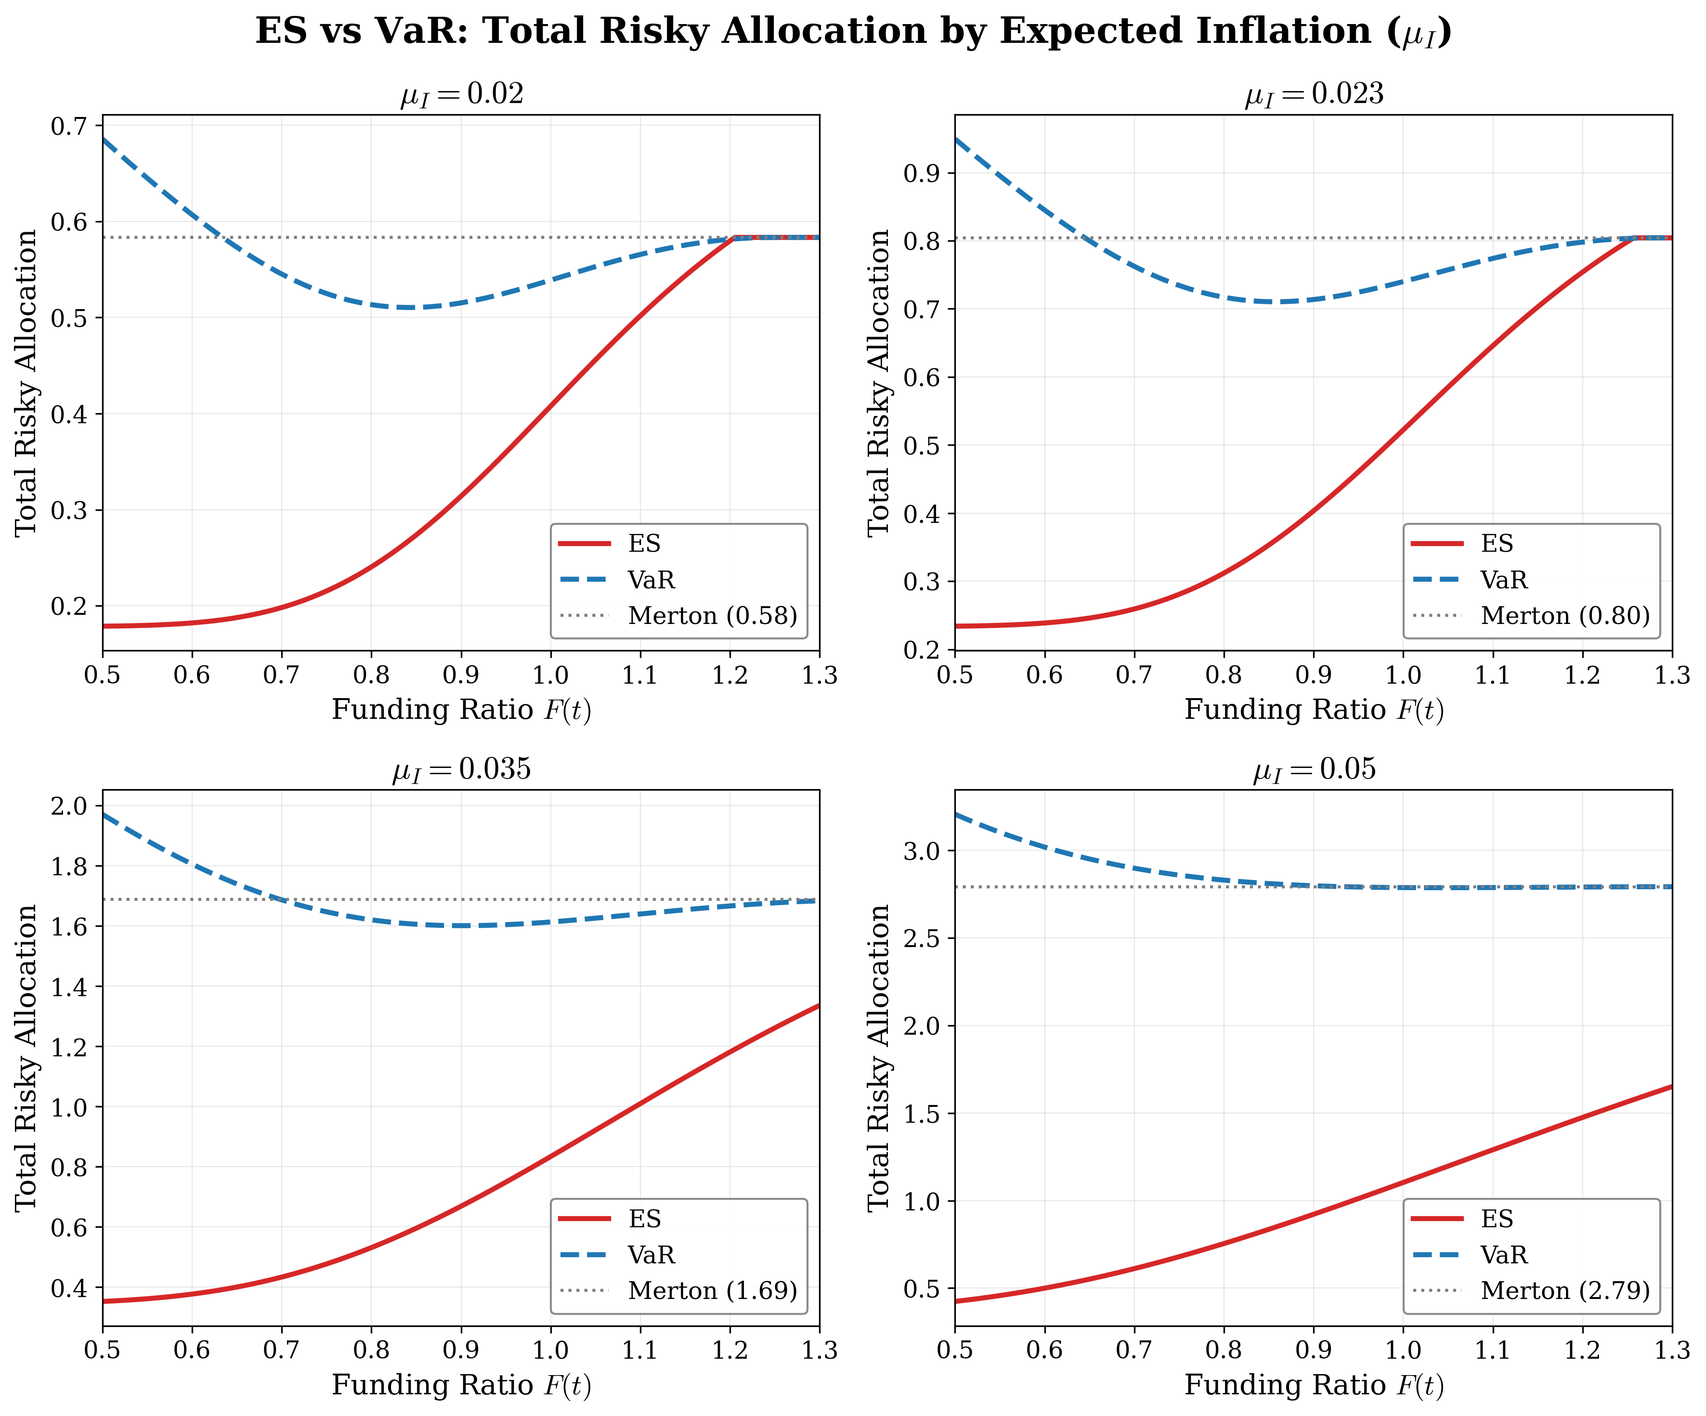
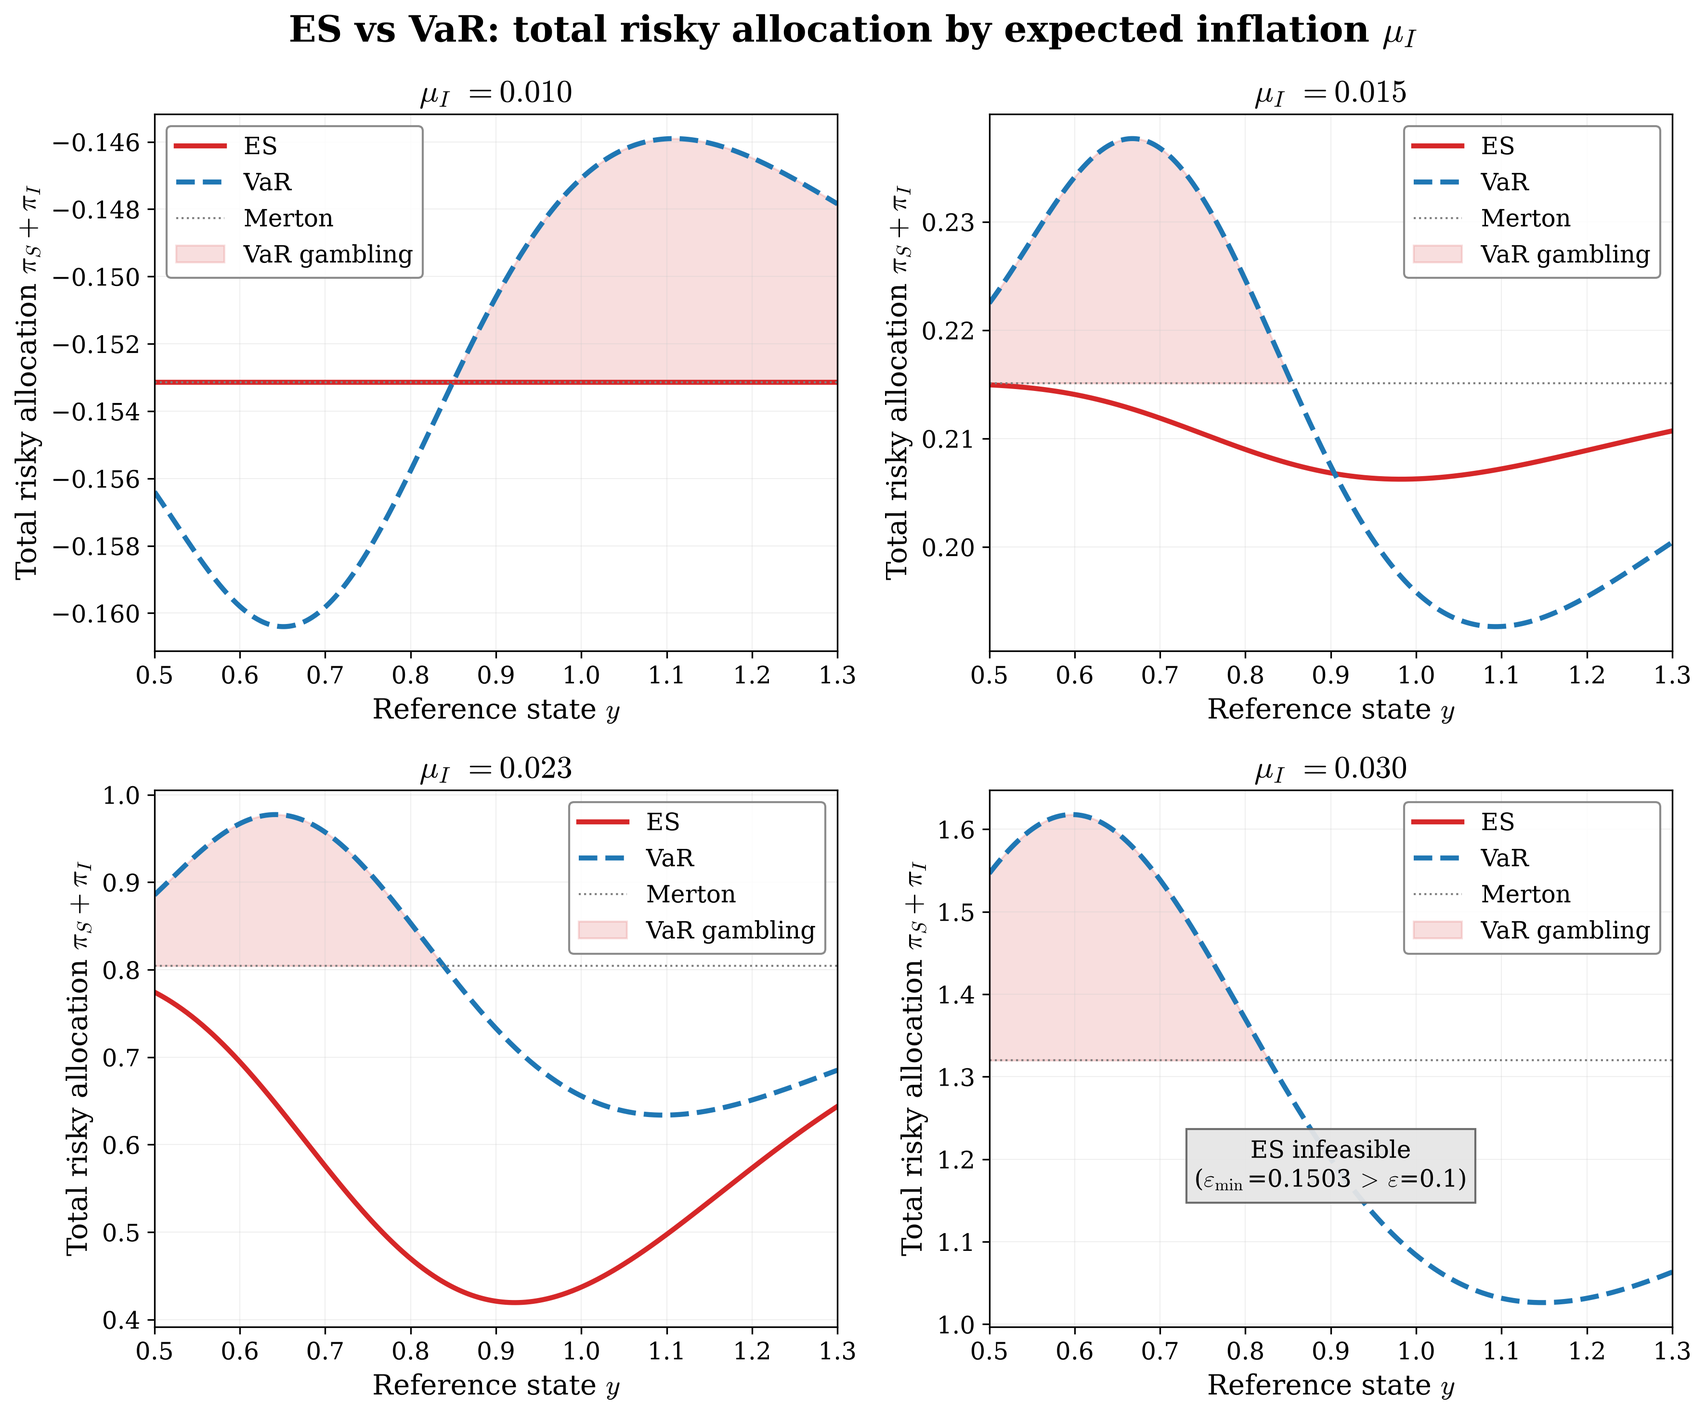
Table 3 Slack 행 정리, Table 2 라벨 4자리, 원고 참조 그림 3종 재생성
마무리 오더 3건.

1. table_sensitivity_v2.tex
   Slack 행(γ=8, μ_I=0.010, T=5)은 ε >= ε_M 이라 최적해가 무제약 claim
   g(y)=y 이고 보호 threshold가 존재하지 않는다 → k_eps·c 를 "---" 로
   (A_ES = 1.000 유지). 각주에 그 이유를 한 문장 추가하고, infeasible 조건
   표기를 "ε <= ε_min" → "ε < ε_min" 으로 수정.

2. table_mc_summary.tex
   행 라벨 alpha 를 본문 표기와 통일 (4자리): 0.08118 → 0.0812,
   0.10666 → 0.1067. 계산값 자체는 그대로.

3. scripts/run_paper_figures.py 신설 — 원고 참조 그림 3종을
   paper/figures/ 에 같은 파일명으로 덮어쓴다.
     fig_A3_gamma_A_factor.png  2x2, γ∈{2,3,5,8}, A_ES vs A_VaR
     fig_C2_muI_compare.png     2x2, μ_I∈{0.010,0.015,0.023,0.030}
     fig_D2_T_compare.png       2x2, T∈{5,10,15,20}
   구성(패널 배치·계열·Merton 기준선·VaR gambling 음영)은 기존 그림 그대로,
   제목·패널 라벨·범례는 전부 mathtext.

   불가피하게 달라진 두 가지:
   - 곡선을 수정된 joint-system / fixed-claim 모형으로 재계산했다. 기존
     파일은 폐기된 단일 식 solver + infeasible한 ε=0.05 산출물이고
     γ=7 패널은 현행 그리드에 없다.
   - x축이 "Funding Ratio F(t)" → "Reference state y". A(t,y)는 t=0에
     고정된 claim의 delta이므로 x마다 threshold를 다시 푸는 기존 해석은
     매 점에서 다른 claim을 가격하는 셈이다. Mode A 버전이 필요하면
     outputs/cross_sectional/sens_*.png 로 교체 가능.

   infeasible 패널(μ_I=0.030, T=15, T=20)에는 해당 config의 ε_min 값을
   명시한 박스를 넣었다 (0.1503 / 0.1343 / 0.1829 — Table 3과 일치).
   override_params 블록 밖에서 P.eps_min()을 읽어 baseline 값이 찍히던
   버그를 잡았다.

fig_A1/C1/D1 승격분은 원고 미참조라 그대로 둔다.
테스트 153개 통과.

Claude-Session: https://claude.ai/code/session_01ABDp194esY5t8f8naqidEt

diff --git a/scripts/run_paper_figures.py b/scripts/run_paper_figures.py
@@ -1,0 +1,150 @@
+"""
+Manuscript-referenced sensitivity figures
+==========================================
+Regenerates the three figures the manuscript cites, keeping the composition
+of the existing ones (2x2 panels, one per parameter value; ES vs VaR series;
+Merton reference line; shaded VaR gambling region) and writing them straight
+to paper/figures/ under the SAME file names:
+
+    fig_A3_gamma_A_factor.png   adjustment factor A, one panel per gamma
+    fig_C2_muI_compare.png      total risky allocation, one panel per mu_I
+    fig_D2_T_compare.png        total risky allocation, one panel per T
+
+Two things differ from the files these replace, both unavoidable:
+
+  * The curves are recomputed with the corrected joint-system / fixed-claim
+    model. The originals came from the discarded single-equation solver at
+    the infeasible baseline eps = 0.05 (and a gamma = 7 panel that is not in
+    the current grid).
+  * The x-axis is the reference state y of ONE fund whose claim is fixed at
+    t = 0, not a cross-section of funds indexed by their funding ratio.
+    A(t,y) is by definition the delta of a claim fixed at t=0, so re-solving
+    the threshold at every x — which is what "A(F) across funding ratios"
+    used to mean — prices a different claim at every point. The Mode A
+    counterparts (x = F0, one fund per point) live in
+    outputs/cross_sectional/sens_*.png if the manuscript prefers them.
+
+Every title, panel label and legend entry is mathtext.
+
+Run:  python3 scripts/run_paper_figures.py
+"""
+
+import os
+import sys
+
+import numpy as np
+import matplotlib
+matplotlib.use('Agg')
+import matplotlib.pyplot as plt
+
+sys.path.insert(0, os.path.join(os.path.dirname(__file__), ".."))
+
+from ldi import params as P
+from ldi import es_model as ES
+from ldi import var_model as VaR
+from ldi import compare as C
+from ldi.style import (apply_paper_style, COLORS, PAPER_LINE_STYLES, LEGEND,
+                       FIGSIZES, PAPER_GAMBLING, paper_grid, paper_hline,
+                       paper_savefig)
+
+ROOT = os.path.join(os.path.dirname(__file__), "..")
+FIG = os.path.join(ROOT, "paper", "figures")
+
+Y_RANGE = (0.5, 1.3)          # same window as the figures being replaced
+N_POINTS = 400
+
+
+def _curves(y):
+    """(A_ES, A_VaR) for the current parameter state; NaN where infeasible."""
+    s = ES.solve_es(strict=False)
+    sv = VaR.solve_var(strict=False)
+
+    if not s['feasible']:
+        a_es = np.full_like(y, np.nan)
+    elif not s['binding']:
+        a_es = np.ones_like(y)
+    else:
+        a_es = np.asarray(ES.adjustment_factor(y, s['k_eps'], s['c'], P.T))
+
+    if not sv['feasible']:
+        a_var = np.full_like(y, np.nan)
+    elif not sv['binding']:
+        a_var = np.ones_like(y)
+    else:
+        a_var = np.asarray(VaR.adjustment_factor(y, sv['k_alpha'], P.T))
+    return a_es, a_var, s, sv
+
+
+def _panel(ax, y, a_es, a_var, s, scale, ylabel, merton_total, band):
+    es_c = a_es * scale
+    var_c = a_var * scale
+    ax.plot(y, es_c, label='ES', **PAPER_LINE_STYLES['ES'])
+    ax.plot(y, var_c, label='VaR', **PAPER_LINE_STYLES['VaR'])
+    ref = 1.0 * scale if scale == 1.0 else merton_total
+    paper_hline(ax, ref, 'Merton' if scale != 1.0 else '$A = 1$ (Merton)')
+
+    gambling = var_c > ref
+    if np.any(gambling):
+        ax.fill_between(y, ref, var_c, where=gambling,
+                        label='VaR gambling', **PAPER_GAMBLING)
+    if not s['feasible']:
+        # band = (eps_min, eps_M) of THIS panel's parameter state, captured
+        # inside the override block — P.eps_min() here would report baseline.
+        ax.text(0.5, 0.30, 'ES infeasible\n'
+                           rf'($\varepsilon_{{\min}}$={band[0]:.4f}'
+                           rf'$\,>\,\varepsilon$={P.epsilon:g})',
+                transform=ax.transAxes, ha='center', va='center', fontsize=12,
+                bbox=dict(fc='0.9', ec='0.4', alpha=0.95))
+    ax.set_xlabel('Reference state $y$')
+    ax.set_ylabel(ylabel)
+    ax.legend(**LEGEND)
+    paper_grid(ax)
+    ax.set_xlim(Y_RANGE)
+
+
+def figure(param, values, kind, suptitle, fname):
+    """2x2 comparison panel; kind = 'A' (adjustment factor) or 'alloc'."""
+    y = np.linspace(*Y_RANGE, N_POINTS)
+    sym = C.param_label(param)
+    fig, axes = plt.subplots(2, 2, figsize=FIGSIZES['quad'])
+
+    for ax, v in zip(axes.flat, values):
+        with P.override_params(**{param: v}):
+            a_es, a_var, s, sv = _curves(y)
+            merton_total = float(P.Pi_star.sum())
+            band = P.eps_band()
+        scale = 1.0 if kind == 'A' else merton_total
+        ylabel = ('Adjustment factor $A(y)$' if kind == 'A'
+                  else r'Total risky allocation $\pi_S + \pi_I$')
+        _panel(ax, y, a_es, a_var, s, scale, ylabel, merton_total, band)
+        fmt = f'{v:g}' if param != 'MU_I' else f'{v:.3f}'
+        ax.set_title(f'{sym} $= {fmt}$')
+
+    fig.suptitle(suptitle)
+    plt.tight_layout()
+    path = os.path.join(FIG, fname)
+    paper_savefig(fig, path)
+    print(f"  wrote {os.path.relpath(path, ROOT)}")
+
+
+def main():
+    apply_paper_style()
+    os.makedirs(FIG, exist_ok=True)
+    print(f"Manuscript figures (F0={P.F0}, eps={P.epsilon}, alpha={P.alpha}, "
+          f"claim fixed at t=0)")
+
+    figure('GAMMA', C.SENS_CONFIGS['GAMMA'], 'A',
+           r'Adjustment factor $A(y)$: ES vs VaR by risk aversion $\gamma$',
+           'fig_A3_gamma_A_factor.png')
+
+    figure('MU_I', C.SENS_CONFIGS['MU_I'], 'alloc',
+           r'ES vs VaR: total risky allocation by expected inflation $\mu_I$',
+           'fig_C2_muI_compare.png')
+
+    figure('T', C.SENS_CONFIGS['T'], 'alloc',
+           r'ES vs VaR: total risky allocation by investment horizon $T$',
+           'fig_D2_T_compare.png')
+
+
+if __name__ == "__main__":
+    main()

diff --git a/results/table_sensitivity_v2.tex b/results/table_sensitivity_v2.tex
@@ -12,7 +12,7 @@ Parameter & Value & $\varepsilon_{\min}$ & $\varepsilon_M$ & Status
   \multirow{4}{*}{$\gamma$} & 2 & 0.0876 & 0.2017 & Binding & 0.5200 & 1.923 & 0.432 & 0.869 & 0.01597 \\
    & 3 & 0.0876 & 0.1526 & Binding & 0.7276 & 1.374 & 0.580 & 0.891 & 0.01597 \\
    & 5 & 0.0876 & 0.1153 & Binding & 0.9154 & 1.092 & 0.811 & 0.938 & 0.01597 \\
-   & 8 & 0.0876 & 0.0973 & Slack & 1.0000 & 1.000 & 1.000 & 1.179 & 0.01597 \\
+   & 8 & 0.0876 & 0.0973 & Slack & --- & --- & 1.000 & 1.179 & 0.01597 \\
   \midrule
   \multirow{7}{*}{$\varepsilon$} & 0.09 & 0.0876 & 0.1526 & Binding & 0.6023 & 1.660 & 0.469 & --- & --- \\
    & 0.1 & 0.0876 & 0.1526 & Binding & 0.7276 & 1.374 & 0.580 & --- & --- \\
@@ -22,12 +22,12 @@ Parameter & Value & $\varepsilon_{\min}$ & $\varepsilon_M$ & Status
    & 0.14 & 0.0876 & 0.1526 & Binding & 0.9466 & 1.056 & 0.915 & --- & --- \\
    & 0.15 & 0.0876 & 0.1526 & Binding & 0.9892 & 1.011 & 0.983 & --- & --- \\
   \midrule
-  \multirow{4}{*}{$\mu_I$} & 0.01 & 0.0000 & 0.0935 & Slack & 1.0000 & 1.000 & 1.000 & 0.963 & 0.00000 \\
+  \multirow{4}{*}{$\mu_I$} & 0.01 & 0.0000 & 0.0935 & Slack & --- & --- & 1.000 & 0.963 & 0.00000 \\
    & 0.015 & 0.0202 & 0.1060 & Binding & 0.9757 & 1.025 & 0.959 & 0.926 & 0.00279 \\
    & 0.023 & 0.0876 & 0.1526 & Binding & 0.7276 & 1.374 & 0.580 & 0.891 & 0.01597 \\
    & 0.03 & 0.1503 & 0.2170 & Infeasible & --- & --- & --- & 0.919 & 0.02148 \\
   \midrule
-  \multirow{4}{*}{$T$} & 5 & 0.0429 & 0.0948 & Slack & 1.0000 & 1.000 & 1.000 & 0.844 & 0.01180 \\
+  \multirow{4}{*}{$T$} & 5 & 0.0429 & 0.0948 & Slack & --- & --- & 1.000 & 0.844 & 0.01180 \\
    & 10 & 0.0876 & 0.1526 & Binding & 0.7276 & 1.374 & 0.580 & 0.891 & 0.01597 \\
    & 15 & 0.1343 & 0.2067 & Infeasible & --- & --- & --- & 0.923 & 0.01813 \\
    & 20 & 0.1829 & 0.2602 & Infeasible & --- & --- & --- & 0.947 & 0.01929 \\
@@ -43,9 +43,10 @@ Parameter & Value & $\varepsilon_{\min}$ & $\varepsilon_M$ & Status
 {\footnotesize Status is relative to the baseline $\varepsilon$: \emph{Binding}
 when $\varepsilon_{\min} < \varepsilon < \varepsilon_M$, \emph{Slack} when
 $\varepsilon \geq \varepsilon_M$ (the unconstrained solution already complies)
-and \emph{Infeasible} when $\varepsilon \leq \varepsilon_{\min}$, where no
-admissible strategy exists and the ES columns are left blank. In the
-$\varepsilon$ panel the VaR quantities are independent of $\varepsilon$ and are
-omitted. $\alpha_{\min}$ is free of $\gamma$ because $\lambda = \gamma\sigma_Y$
-does not depend on it.}
+and \emph{Infeasible} when $\varepsilon < \varepsilon_{\min}$, where no
+admissible strategy exists and the ES columns are left blank. In a slack row
+the optimum is the unconstrained claim, so no protection threshold
+$k_\varepsilon$ (and hence no $c$) exists. In the $\varepsilon$ panel the VaR
+quantities are independent of $\varepsilon$ and are omitted. $\alpha_{\min}$ is
+free of $\gamma$ because $\lambda = \gamma\sigma_Y$ does not depend on it.}
 \end{table}

diff --git a/scripts/run_exact.py b/scripts/run_exact.py
@@ -228,11 +228,16 @@ def write_sensitivity_tex(panels, path):
             head = (rf"  \multirow{{{len(rows)}}}{{*}}{{{sym}}} & "
                     if i == 0 else "   & ")
             val = f"{r['value']:g}"
-            if r['feasible']:
-                ke, cc = _f(r['k_eps']), _f(r['c'], 3)
+            if not r['feasible']:
+                ke = cc = aes = '---'
+            elif not r['binding']:
+                # slack: the optimum is the Merton claim g(y) = y, so there is
+                # no protection threshold to report — only A_ES = 1.
+                ke = cc = '---'
                 aes = _f(r['A0'], 3)
             else:
-                ke = cc = aes = '---'
+                ke, cc = _f(r['k_eps']), _f(r['c'], 3)
+                aes = _f(r['A0'], 3)
             if pname == 'EPS':                       # VaR side is eps-invariant
                 avar = amin = '---'
             else:
@@ -260,11 +265,12 @@ Parameter & Value & $\varepsilon_{\min}$ & $\varepsilon_M$ & Status
 {\footnotesize Status is relative to the baseline $\varepsilon$: \emph{Binding}
 when $\varepsilon_{\min} < \varepsilon < \varepsilon_M$, \emph{Slack} when
 $\varepsilon \geq \varepsilon_M$ (the unconstrained solution already complies)
-and \emph{Infeasible} when $\varepsilon \leq \varepsilon_{\min}$, where no
-admissible strategy exists and the ES columns are left blank. In the
-$\varepsilon$ panel the VaR quantities are independent of $\varepsilon$ and are
-omitted. $\alpha_{\min}$ is free of $\gamma$ because $\lambda = \gamma\sigma_Y$
-does not depend on it.}
+and \emph{Infeasible} when $\varepsilon < \varepsilon_{\min}$, where no
+admissible strategy exists and the ES columns are left blank. In a slack row
+the optimum is the unconstrained claim, so no protection threshold
+$k_\varepsilon$ (and hence no $c$) exists. In the $\varepsilon$ panel the VaR
+quantities are independent of $\varepsilon$ and are omitted. $\alpha_{\min}$ is
+free of $\gamma$ because $\lambda = \gamma\sigma_Y$ does not depend on it.}
 \end{table}
 """ % (_f(P.F0, 1), _f(P.epsilon, 2), _f(P.alpha, 2),
        '\n  \\midrule\n'.join(blocks))
@@ -682,8 +688,8 @@ def main():
     tex_labels = ['Merton',
                   rf"ES ($\varepsilon={P.epsilon:g}$)",
                   rf"VaR ($\alpha={P.alpha:g}$)",
-                  rf"VaR equal-CE ($\alpha={eq['alpha']:.5f}$)",
-                  rf"VaR threshold-matched ($\alpha={thr['alpha']:.5f}$)"]
+                  rf"VaR equal-CE ($\alpha={eq['alpha']:.4f}$)",
+                  rf"VaR threshold-matched ($\alpha={thr['alpha']:.4f}$)"]
     for r, tl in zip(rows, tex_labels):
         r['tex_label'] = tl
 

diff --git a/results/table_mc_summary.tex b/results/table_mc_summary.tex
@@ -12,8 +12,8 @@ Strategy & $\mathrm{E}[F_T]$ & $\mathrm{Std}[F_T]$ & $\mathrm{P}(F_T<k)$
   Merton & 1.1062 & 0.2784 & 0.3889 & 0.0593 & 0.1524 & 0.7137 & 0.6462 & 1.0082 & 0.000 \\
   ES ($\varepsilon=0.1$) & 1.0155 & 0.1469 & 0.2473 & 0.0324 & 0.1308 & 0.7882 & 0.7136 & 0.9853 & 2.275 \\
   VaR ($\alpha=0.1$) & 1.0703 & 0.2238 & 0.0996 & 0.0359 & 0.3608 & 0.6539 & 0.5921 & 0.9921 & 1.597 \\
-  VaR equal-CE ($\alpha=0.08118$) & 1.0576 & 0.2072 & 0.0807 & 0.0319 & 0.3950 & 0.6342 & 0.5742 & 0.9853 & 2.275 \\
-  VaR threshold-matched ($\alpha=0.10666$) & 1.0738 & 0.2286 & 0.1063 & 0.0373 & 0.3504 & 0.6594 & 0.5970 & 0.9940 & 1.415 \\
+  VaR equal-CE ($\alpha=0.0812$) & 1.0576 & 0.2072 & 0.0807 & 0.0319 & 0.3950 & 0.6342 & 0.5742 & 0.9853 & 2.275 \\
+  VaR threshold-matched ($\alpha=0.1067$) & 1.0738 & 0.2286 & 0.1063 & 0.0373 & 0.3504 & 0.6594 & 0.5970 & 0.9940 & 1.415 \\
 \bottomrule
 \end{tabular}
 

diff --git a/NOTES.md b/NOTES.md
@@ -522,3 +522,39 @@ CSV에는 `ce`(MC), `ce_exact`, `ce_loss_pct_mc`, `ce_loss_pct_exact` 를 모두
    `paper/figures/` 는 이제 신규 4장 + 구 방법론 산출물이 섞여 있다.
    나머지(fig_A2, A3, B1, B2, C2, D2, E1, E2, cross_sectional, time_series,
    mc_fan/samples/shortfall 등)는 아직 구 산출물이다.
+
+## 12.5 마무리 오더 (3건)
+
+1. **Table 3 Slack 행 정리.** γ=8, μ_I=0.010, T=5 은 ε ≥ ε_M 이라 최적해가
+   무제약 claim g(y)=y 이다 — 보호 threshold가 존재하지 않으므로
+   `k_ε`·`c` 를 `---` 로 바꿨다 (`A_ES` = 1.000 은 유지). 각주에도
+   "In a slack row the optimum is the unconstrained claim, so no protection
+   threshold exists" 문장을 넣었다. 각주의 infeasible 조건 표기도
+   `ε ≤ ε_min` → **`ε < ε_min`** 으로 수정.
+   (참고: 코드의 `solve_es` 는 ε = ε_min 에서도 `InfeasibleError` 를 낸다.
+   경계에서는 내부해가 없고 극한으로만 접근하기 때문 — 표기와 solver의
+   경계 처리는 별개다.)
+2. **Table 2 행 라벨** α 를 본문 표기와 맞춰 4자리로: 0.08118 → **0.0812**,
+   0.10666 → **0.1067**. 계산에 쓰는 값은 그대로 (0.0811778, 0.1066627).
+3. **원고 참조 그림 3종 재생성** → `scripts/run_paper_figures.py` 신설,
+   `paper/figures/` 에 같은 파일명으로 덮어썼다.
+
+   | 파일 | 구성 |
+   |---|---|
+   | `fig_A3_gamma_A_factor.png` | 2×2, γ ∈ {2,3,5,8}, A_ES vs A_VaR, A=1 기준선, VaR gambling 음영 |
+   | `fig_C2_muI_compare.png` | 2×2, μ_I ∈ {0.010,0.015,0.023,0.030}, 총 위험자산 배분 |
+   | `fig_D2_T_compare.png` | 2×2, T ∈ {5,10,15,20}, 총 위험자산 배분 |
+
+   구성(패널 배치·계열·기준선·음영)은 기존 그림 그대로이고 제목·패널
+   라벨·범례는 전부 mathtext다. **두 가지가 불가피하게 달라졌다:**
+   - 곡선은 수정된 joint-system / fixed-claim 모형으로 재계산했다. 기존
+     파일은 폐기된 단일 식 solver + infeasible한 ε=0.05 산출물이었고
+     γ=7 패널은 현행 그리드에 없다.
+   - x축이 "Funding Ratio F(t)" → **"Reference state y"** 다. A(t,y)는
+     t=0에 고정된 claim의 delta이므로 x마다 threshold를 다시 푸는
+     기존 해석은 매 점에서 다른 claim을 가격하는 셈이다. Mode A
+     (x = F0, 점마다 다른 펀드) 버전이 필요하면
+     `outputs/cross_sectional/sens_*.png` 로 교체하면 된다.
+
+   infeasible 패널(μ_I=0.030, T=15, T=20)에는 해당 config의 ε_min을 명시한
+   박스를 넣었다 (0.1503 / 0.1343 / 0.1829 — Table 3과 일치).

diff --git a/notes/todo.md b/notes/todo.md
@@ -38,6 +38,9 @@
 - [x] (후속) Table 2의 CE·CE loss 두 열 closed form + 각주 교체
 - [x] (후속) diagnostics.csv 재생성 (alpha_equal_CE → exact 0.081178)
 - [x] (후속) Fig 8 (c) 및 sens γ/μ_I/T 를 paper/figures/ 로 승격
+- [x] (마무리) Table 3 Slack 행 k_ε·c "---", 각주 ε < ε_min
+- [x] (마무리) Table 2 행 라벨 α 4자리 (0.0812 / 0.1067)
+- [x] (마무리) 원고 참조 그림 3종 재생성 (`scripts/run_paper_figures.py`)
 
 ## 향후 작업 (재계산 후 남은 것)
 - [ ] **Mode A / Mode B 중 논문 채택 결정** (사람이 판단 — `NOTES.md` §8)
@@ -45,8 +48,8 @@
 - [ ] baseline μ_I=0.023이 infeasibility 경계(0.0244)에 근접 — 본문에서 다룰지 결정
 - [ ] 새 Proposition (feasibility floor) 논문 본문에 반영
 - [ ] **Figure 6 시안 채택 결정** (`outputs/common/eps_min_muI_v2.png`)
-- [ ] 승격한 sens 그림이 Mode B 버전임을 확인 — Mode A 채택 시
-      `outputs/cross_sectional/sens_*.png` 로 교체 (NOTES §12)
+- [ ] 승격·재생성한 그림이 모두 Mode B (x = reference state y) 버전임을 확인 —
+      Mode A 채택 시 `outputs/cross_sectional/sens_*.png` 로 교체 (NOTES §12, §12.5)
 - [ ] ρ 패널(`fig_E1_rho_es.png`) 승격 여부 결정
 - [ ] `paper/figures/` 잔여 구 방법론 그림 정리 (fig_A2/A3/B1/B2/C2/D2/E1/E2,
       cross_sectional, time_series, mc_* 등)

diff --git a/CLAUDE.md b/CLAUDE.md
@@ -30,6 +30,7 @@ The core contribution: ES eliminates gambling incentives that VaR creates for un
 ├── scripts/
 │   ├── run_recompute.py       # ★ 전체 재계산 진입점 (그림 + CSV 전부)
 │   ├── run_exact.py           # ★ exact 통계/표 + α_min + δ_L + Figure 시안
+│   ├── run_paper_figures.py   # ★ 원고 참조 그림 3종 → paper/figures/ 직접 기록
 │   └── legacy/                # 구 방법론(단일 식) 스크립트 — 참고용, 실행 금지
 │
 ├── tests/                     # pytest 기반 테스트 (153 passed)
